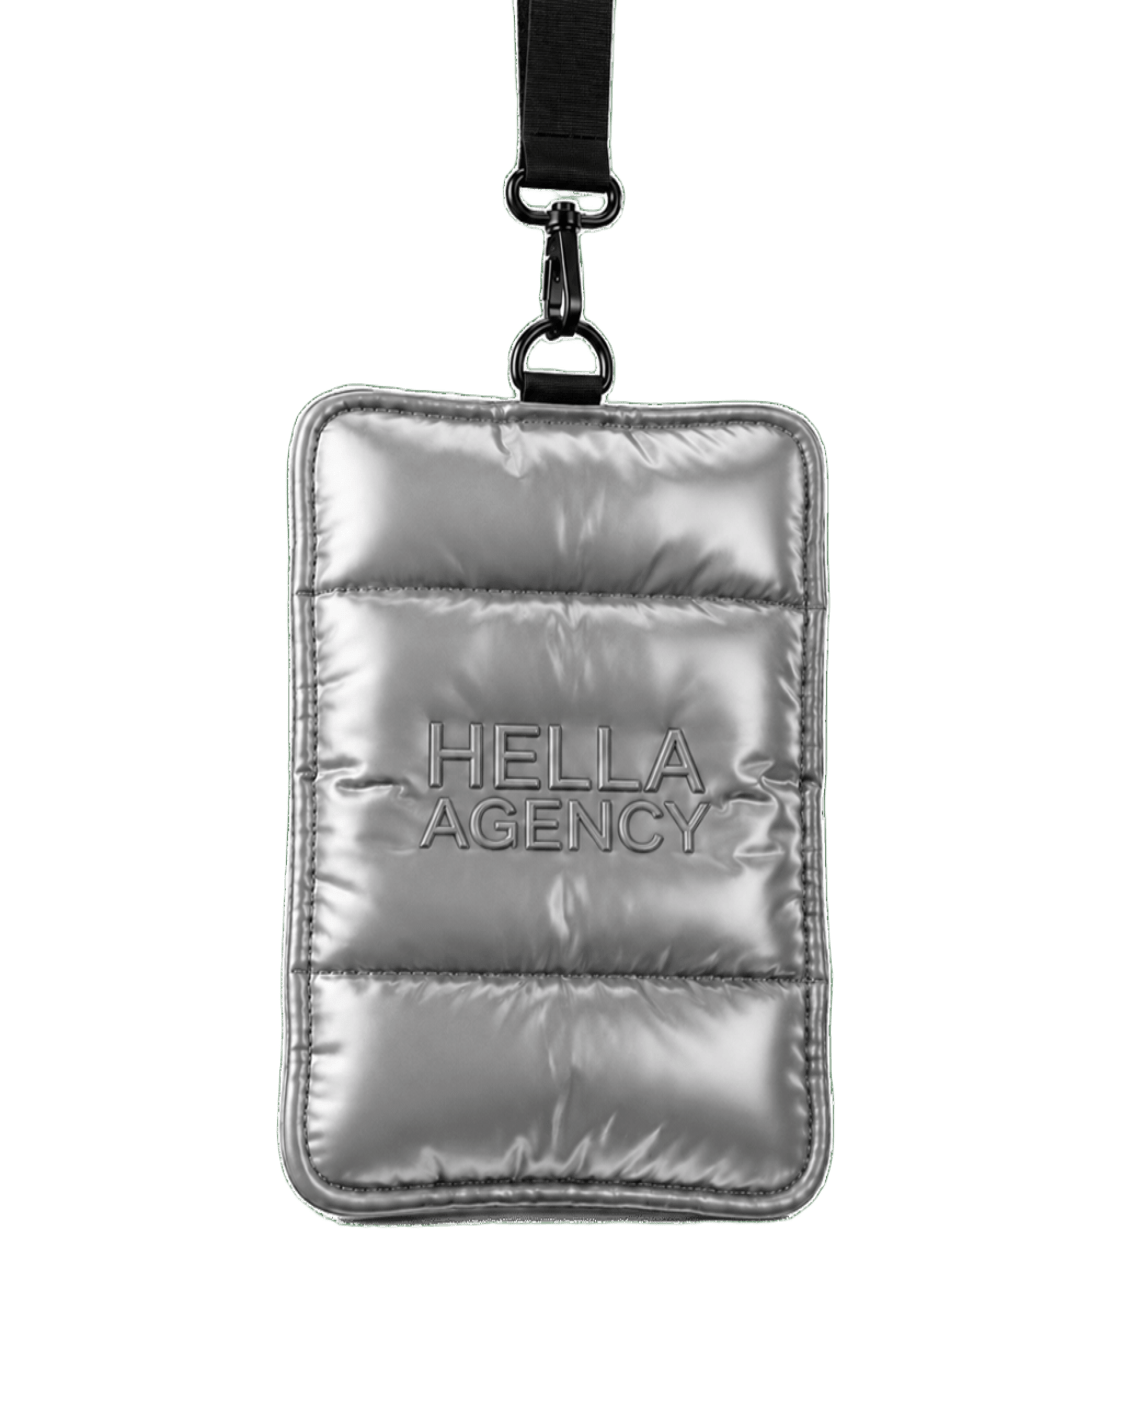
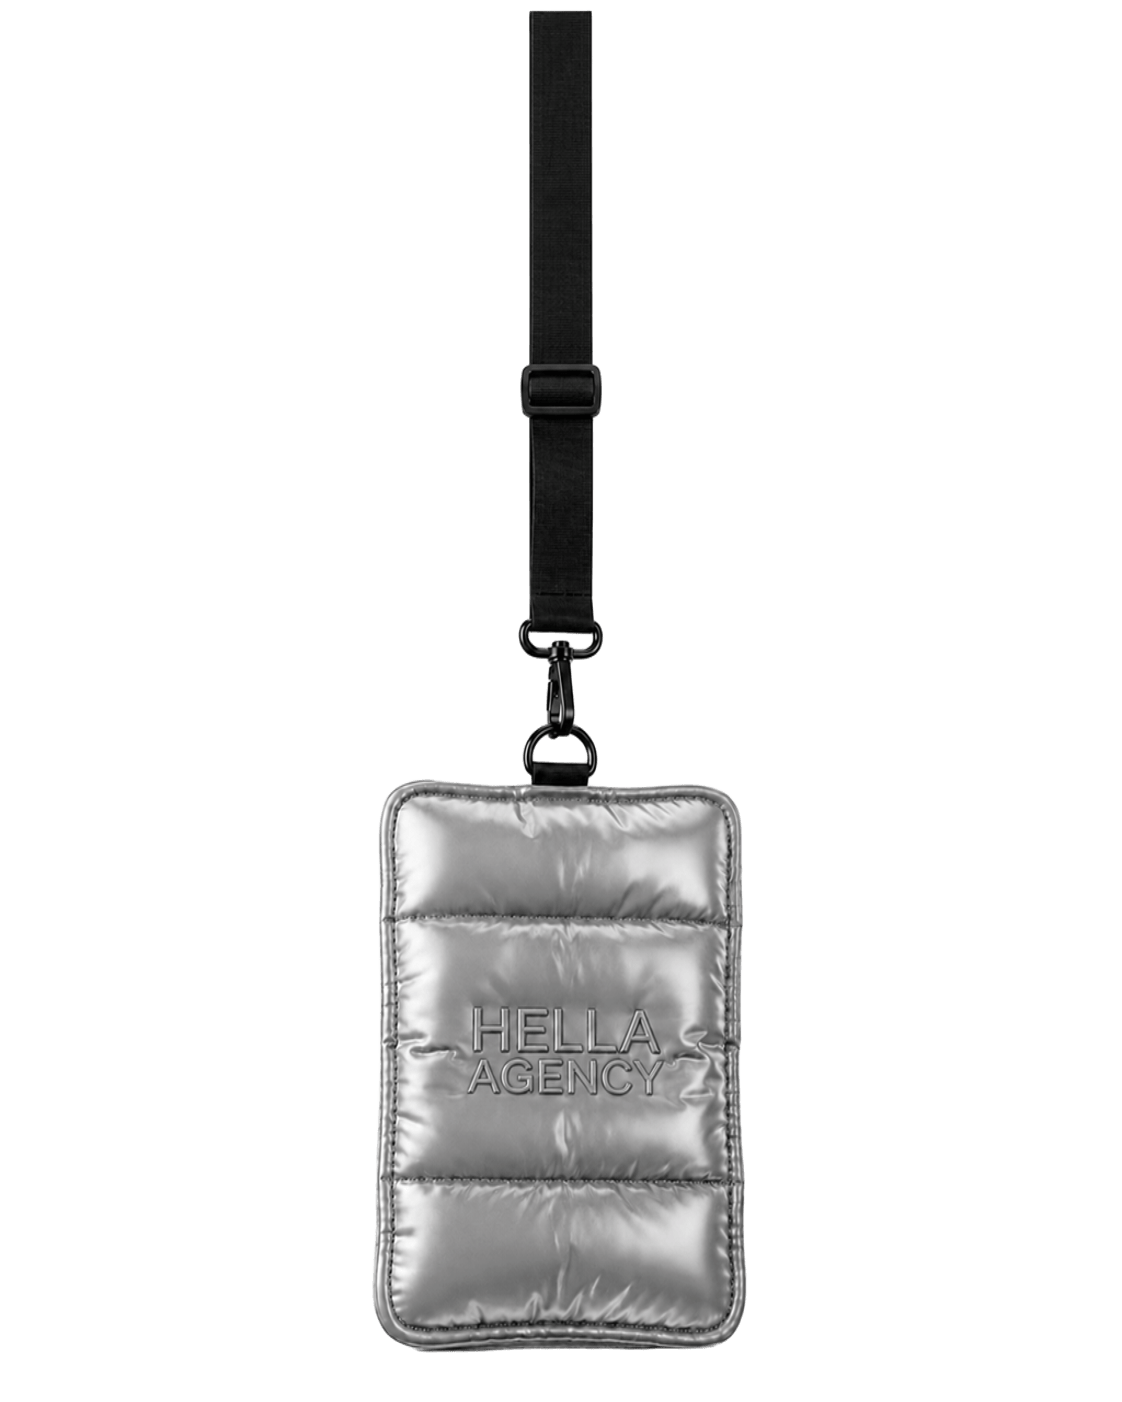
style: increase FAQ/Automation glow visibility, optimize Hero dynamic video blur on mobile, enlarge and optimize hanging bag pendulum snaps

Changed region(s): [[0.2496, 0.0, 0.7487, 0.9815]]

diff --git a/components/Contact.tsx b/components/Contact.tsx
@@ -1,6 +1,6 @@
 "use client";
 
-import { motion, useMotionValue, useTransform } from "framer-motion";
+import { motion } from "framer-motion";
 import { useRouter } from "next/navigation";
 import { useState, useEffect, type FormEvent } from "react";
 import Image from "next/image";
@@ -469,15 +469,12 @@ function Input({
 /* ===================== HANGING PENDULUM BAG ===================== */
 
 function HangingBag() {
-  const x = useMotionValue(0);
-  const y = useMotionValue(0);
-
   return (
     <motion.div
       animate={{ rotate: [-3, 3, -3] }}
       transition={{ repeat: Infinity, duration: 6, ease: "easeInOut" }}
       style={{ transformOrigin: "50% 0px" }}
-      className="absolute top-0 right-0 xl:right-[4%] z-20 w-[180px] h-[300px] hidden lg:block pointer-events-none"
+      className="absolute top-0 right-0 xl:right-[4%] z-20 w-[240px] h-[360px] hidden lg:block pointer-events-none"
     >
       {/* Peg anchor */}
       <div className="absolute top-0 left-1/2 -translate-x-1/2 w-3.5 h-3.5 rounded-full bg-zinc-800 border border-zinc-700 shadow-[0_2px_4px_rgba(0,0,0,0.8)] z-10">
@@ -490,17 +487,16 @@ function HangingBag() {
         dragConstraints={{ left: 0, right: 0, top: 0, bottom: 0 }}
         dragElastic={0.65}
         dragTransition={{ bounceStiffness: 140, bounceDamping: 10 }}
-        style={{ x, y }}
         whileHover={{ scale: 1.05 }}
-        whileTap={{ cursor: "grabbing" }}
-        className="absolute top-[8px] left-1/2 -translate-x-1/2 w-32 h-40 cursor-grab pointer-events-auto"
+        whileTap={{ scale: 0.98, cursor: "grabbing" }}
+        className="absolute top-[12px] left-1/2 -translate-x-1/2 w-[160px] h-[200px] cursor-grab pointer-events-auto"
       >
         <Image
           src="/bag.png"
           alt="Hella Dev Agency shopping bag automation mockup"
           fill
           className="object-contain select-none pointer-events-none drop-shadow-[0_20px_40px_rgba(0,0,0,0.7)]"
-          sizes="128px"
+          sizes="160px"
         />
       </motion.div>
     </motion.div>

diff --git a/components/Hero.tsx b/components/Hero.tsx
@@ -60,6 +60,11 @@ const eyebrowContainerVariants = {
 export default function Hero() {
   const { t } = useLang();
   const containerRef = useRef<HTMLDivElement>(null);
+  const [isMobile, setIsMobile] = useState(false);
+
+  useEffect(() => {
+    setIsMobile(window.innerWidth < 768);
+  }, []);
 
   // Raw motion values for cursor lens coords
   const lensX = useMotionValue(0);
@@ -186,7 +191,12 @@ export default function Hero() {
 
   const blurRaw = useTransform(scrollY, [0, 500], [0, 8]);
   const blurVal = useSpring(blurRaw, { stiffness: 90, damping: 20 });
-  const videoFilter = useTransform(blurVal, (b) => `saturate(1.1) brightness(0.8) blur(${b}px)`);
+  const videoFilter = useTransform(blurVal, (b) => {
+    if (isMobile) {
+      return "saturate(1.1) brightness(0.8)";
+    }
+    return `saturate(1.1) brightness(0.8) blur(${b}px)`;
+  });
 
   // Text container scroll parallax exit (smoothed)
   const textOpacityRaw = useTransform(scrollY, [0, 450], [1.0, 0]);

diff --git a/components/AIAutomation.tsx b/components/AIAutomation.tsx
@@ -114,11 +114,11 @@ export default function AIAutomation() {
       {/* Glow layers */}
       <div
         aria-hidden
-        className="pointer-events-none absolute -right-32 top-1/4 h-[350px] w-[350px] rounded-full bg-fuchsia-500/[0.04] blur-[100px] md:h-[650px] md:w-[650px] md:blur-[160px] z-0"
+        className="pointer-events-none absolute -right-32 top-1/4 h-[350px] w-[350px] rounded-full bg-fuchsia-500/[0.08] blur-[80px] md:h-[650px] md:w-[650px] md:blur-[160px] z-0"
       />
       <div
         aria-hidden
-        className="pointer-events-none absolute -left-32 bottom-1/4 h-[350px] w-[350px] rounded-full bg-teal-500/[0.04] blur-[100px] md:h-[650px] md:w-[650px] md:blur-[160px] z-0"
+        className="pointer-events-none absolute -left-32 bottom-1/4 h-[350px] w-[350px] rounded-full bg-teal-500/[0.08] blur-[80px] md:h-[650px] md:w-[650px] md:blur-[160px] z-0"
       />
 
       <div className="relative mx-auto max-w-7xl px-6">

diff --git a/components/FAQ.tsx b/components/FAQ.tsx
@@ -96,11 +96,11 @@ export default function FAQ() {
       {/* Glow layers */}
       <div
         aria-hidden
-        className="pointer-events-none absolute -left-40 top-10 h-[300px] w-[300px] rounded-full bg-cyan-500/[0.03] blur-[90px] md:h-[600px] md:w-[600px] md:blur-[150px] z-0"
+        className="pointer-events-none absolute -left-40 top-10 h-[300px] w-[300px] rounded-full bg-cyan-500/[0.08] blur-[80px] md:h-[600px] md:w-[600px] md:blur-[150px] z-0"
       />
       <div
         aria-hidden
-        className="pointer-events-none absolute -right-40 bottom-10 h-[300px] w-[300px] rounded-full bg-indigo-500/[0.03] blur-[90px] md:h-[600px] md:w-[600px] md:blur-[150px] z-0"
+        className="pointer-events-none absolute -right-40 bottom-10 h-[300px] w-[300px] rounded-full bg-indigo-500/[0.08] blur-[80px] md:h-[600px] md:w-[600px] md:blur-[150px] z-0"
       />
 
       {/* Background elements */}
